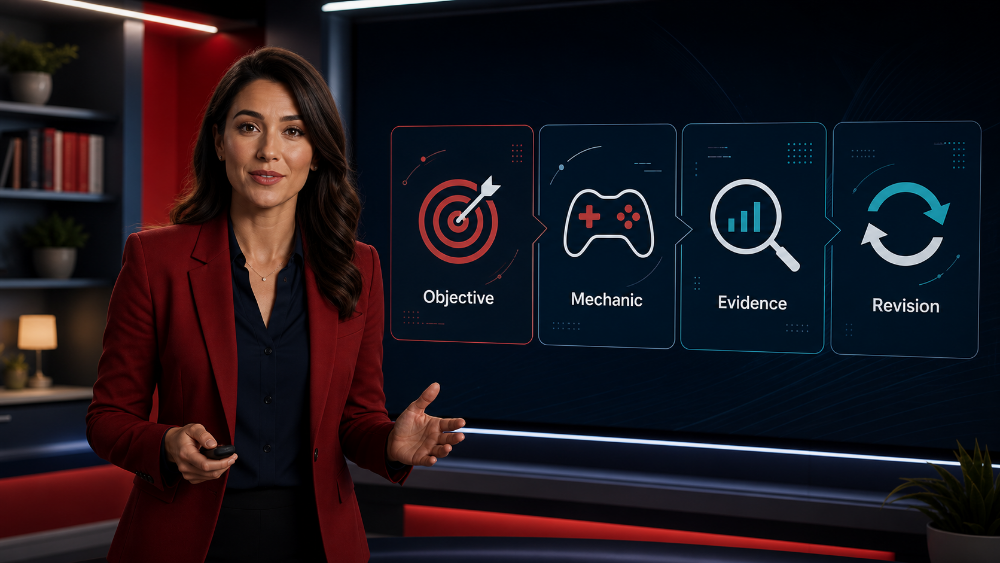
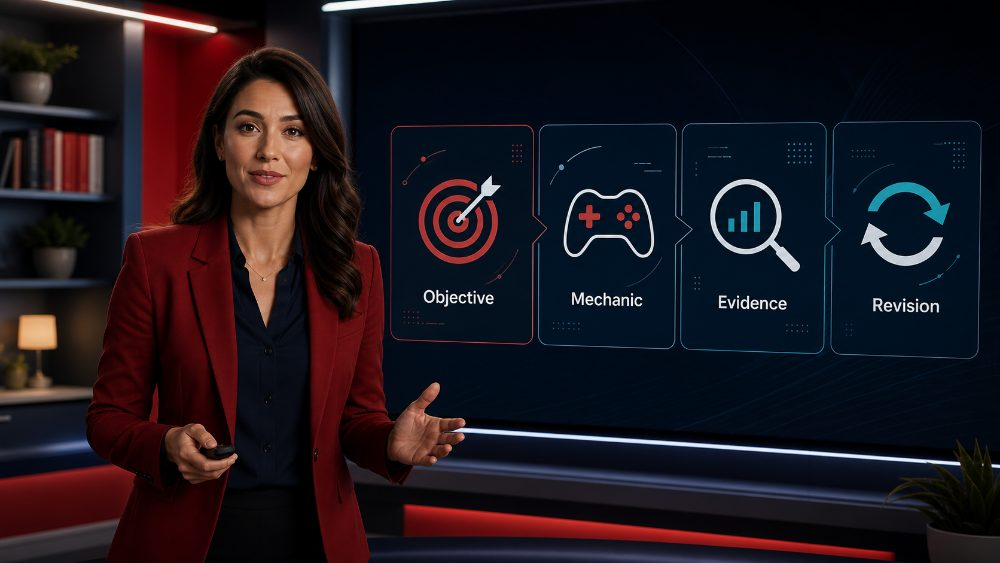
Perf: stop eager media preloads (~2.5MB/load) + compress two heavy images
Lighthouse put the home at perf 64 / LCP 9.4s / 5.2MB. Root causes:
- the frozen learner bundle mounts <video>/<audio preload="metadata">
  pairs for the avatar lectures; Chromium eagerly fetched and aborted
  each webm ~3x per load (~2.5MB wasted, 12 ERR_ABORTED per visit).
  An early head script in index.html + app/index.html now coerces media
  preload metadata/auto -> none at the HTMLMediaElement prototype
  (property setter + setAttribute) before any fetch starts. Verified
  locally: /app/media requests drop to caption .vtt files only, all
  media elements report preload=none, cards render, playback on demand.
- teachplay-avatar-lecture-poster.png 910KB -> 62KB and
  chalk-and-chance-card.png 321KB -> 40KB (JPEG bytes under the .png
  names the bundle references; browsers decode by magic bytes -
  verified decode at full resolution in Chromium).

Note: the earlier MutationObserver fix reduced re-mount thrash but the
"aborts fixed" live check was a measurement artifact (listener attached
after load); this closes the actual waste.

Verified: a11y suite 8/8, media patch test (0 webm/wav fetches), decode
checks 1000x563 / 1280x720.

Claude-Session: https://claude.ai/code/session_017yiHE78FDVP8jKFvdQ55vQ

Changed region(s): [[0.434, 0.3321, 0.496, 0.4831], [0.62, 0.3623, 0.651, 0.3925], [0.465, 0.2114, 0.496, 0.2416]]

diff --git a/app/index.html b/app/index.html
@@ -5,6 +5,30 @@
     <meta name="viewport" content="width=device-width, initial-scale=1.0" />
     <meta name="theme-color" content="#be1a2f" />
     <script>
+      // The frozen learner bundle mounts <video>/<audio preload="metadata">
+      // pairs for the avatar lectures; Chromium eagerly fetches hundreds of
+      // KB per file and aborts (each webm was downloading ~3x per home load,
+      // ~2.5MB wasted). Coerce media preloads to 'none' before any fetch
+      // starts — posters still render, playback fetches on user play.
+      (() => {
+        const proto = window.HTMLMediaElement && HTMLMediaElement.prototype;
+        if (!proto) return;
+        const desc = Object.getOwnPropertyDescriptor(proto, 'preload');
+        if (desc && desc.set) {
+          Object.defineProperty(proto, 'preload', {
+            configurable: true,
+            get() { return desc.get.call(this); },
+            set(v) { desc.set.call(this, v === 'metadata' || v === 'auto' ? 'none' : v); },
+          });
+        }
+        const setAttr = proto.setAttribute;
+        proto.setAttribute = function (name, value) {
+          if (String(name).toLowerCase() === 'preload' && (value === 'metadata' || value === 'auto')) value = 'none';
+          return setAttr.call(this, name, value);
+        };
+      })();
+    </script>
+    <script>
       (() => {
         const lockThemeColor = () => {
           const meta = document.querySelector('meta[name="theme-color"]');

diff --git a/index.html b/index.html
@@ -6,6 +6,30 @@
     <meta name="theme-color" content="#be1a2f" />
     <link rel="icon" type="image/svg+xml" href="assets/gameicon-favicon.svg" />
 <script>
+      // The frozen learner bundle mounts <video>/<audio preload="metadata">
+      // pairs for the avatar lectures; Chromium eagerly fetches hundreds of
+      // KB per file and aborts (each webm was downloading ~3x per home load,
+      // ~2.5MB wasted). Coerce media preloads to 'none' before any fetch
+      // starts — posters still render, playback fetches on user play.
+      (() => {
+        const proto = window.HTMLMediaElement && HTMLMediaElement.prototype;
+        if (!proto) return;
+        const desc = Object.getOwnPropertyDescriptor(proto, 'preload');
+        if (desc && desc.set) {
+          Object.defineProperty(proto, 'preload', {
+            configurable: true,
+            get() { return desc.get.call(this); },
+            set(v) { desc.set.call(this, v === 'metadata' || v === 'auto' ? 'none' : v); },
+          });
+        }
+        const setAttr = proto.setAttribute;
+        proto.setAttribute = function (name, value) {
+          if (String(name).toLowerCase() === 'preload' && (value === 'metadata' || value === 'auto')) value = 'none';
+          return setAttr.call(this, name, value);
+        };
+      })();
+    </script>
+<script>
       (() => {
         const lockThemeColor = () => {
           const meta = document.querySelector('meta[name="theme-color"]');
